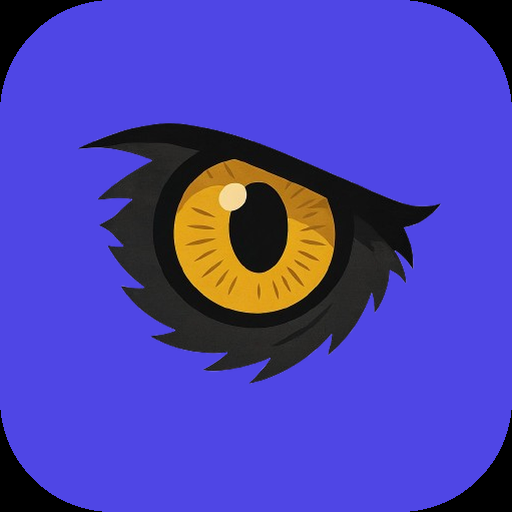
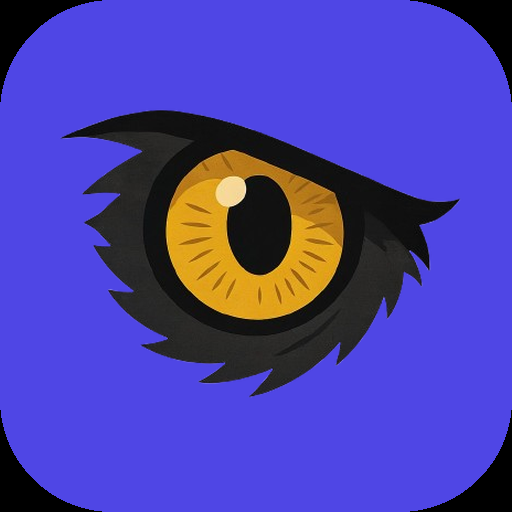
feat(v96): icone safe=1.08 — olho maior com leve crop nas bordas

Changed region(s): [[0.125, 0.1875, 0.9062, 0.7812]]

diff --git a/index.html b/index.html
@@ -10,7 +10,7 @@
 <!-- Force-update: unregister → re-register → SW ready → reload -->
 <script>
   (function() {
-    var V = '95';
+    var V = '96';
     if (localStorage.getItem('_visao_build') !== V) {
       localStorage.setItem('_visao_build', V);
       if ('caches' in window) {
@@ -43,7 +43,7 @@
 <meta name="apple-mobile-web-app-status-bar-style" content="black-translucent">
 <meta name="apple-mobile-web-app-title" content="Falcon">
 <meta name="mobile-web-app-capable" content="yes">
-<link rel="stylesheet" href="css/styles.css?v=20260708j">
+<link rel="stylesheet" href="css/styles.css?v=20260708k">
 <style>.onboarding-logo,.ajustes-avatar{background:#4f46e5!important}</style>
 <script>
   // Aplica tema ANTES de qualquer render — evita flash de tema errado
@@ -61,11 +61,11 @@
 <body>
   <div id="app">
     <div style="padding:80px 20px;text-align:center;color:var(--muted)">
-      <img src="icons/icon-192.png?v=94" style="width:64px;height:64px;border-radius:18px;display:block;margin:0 auto 14px;object-fit:cover;">
+      <img src="icons/icon-192.png?v=95" style="width:64px;height:64px;border-radius:18px;display:block;margin:0 auto 14px;object-fit:cover;">
       <div>Carregando Falcon...</div>
     </div>
   </div>
-  <script type="module" src="js/main.js?v=20260708j"></script>
+  <script type="module" src="js/main.js?v=20260708k"></script>
 
   <!-- Registro do Service Worker (PWA) -->
   <script>

diff --git a/js/screens/welcome.js b/js/screens/welcome.js
@@ -6,7 +6,7 @@ import { setProfile, seedOrganizacaoPessoal } from '../store.js';
 export function renderWelcome(app) {
   app.innerHTML = `
     <div class="onboarding">
-      <div class="onboarding-logo" style="background:#4f46e5"><img src="icons/icon-192.png?v=94" style="width:100%;height:100%;object-fit:cover;border-radius:inherit;display:block;"></div>
+      <div class="onboarding-logo" style="background:#4f46e5"><img src="icons/icon-192.png?v=95" style="width:100%;height:100%;object-fit:cover;border-radius:inherit;display:block;"></div>
       <div class="onboarding-title">Falcon</div>
       <div class="onboarding-sub" style="font-weight:600;color:var(--accent-2);margin-bottom:6px">Bem-vindo!</div>
       <div class="onboarding-sub">Conta criada. Escolha um template pra começar.</div>

diff --git a/js/screens/modalidade.js b/js/screens/modalidade.js
@@ -18,7 +18,7 @@ export function renderModalidade(app) {
 
   app.innerHTML = `
     <div class="onboarding modalidade-screen">
-      <div class="onboarding-logo" style="background:#4f46e5"><img src="icons/icon-192.png?v=94" style="width:100%;height:100%;object-fit:cover;border-radius:inherit;display:block;"></div>
+      <div class="onboarding-logo" style="background:#4f46e5"><img src="icons/icon-192.png?v=95" style="width:100%;height:100%;object-fit:cover;border-radius:inherit;display:block;"></div>
       <div class="onboarding-title">Falcon</div>
       <div class="onboarding-sub" style="font-weight:600;color:var(--accent-2);margin-bottom:6px">
         ${t('modal.hello', { name: escapeHtml(firstName) })}

diff --git a/js/screens/ajustes.js b/js/screens/ajustes.js
@@ -31,7 +31,7 @@ export async function renderAjustes(app) {
         </div>
 
         <div class="ajustes-account">
-          <div class="ajustes-avatar" style="background:#4f46e5"><img src="icons/icon-192.png?v=94" style="width:100%;height:100%;object-fit:cover;border-radius:inherit;display:block;"></div>
+          <div class="ajustes-avatar" style="background:#4f46e5"><img src="icons/icon-192.png?v=95" style="width:100%;height:100%;object-fit:cover;border-radius:inherit;display:block;"></div>
           <div class="ajustes-account-info">
             <strong>${escape(email)}</strong>
             <small>${t('ajustes.plan')}</small>

diff --git a/sw.js b/sw.js
@@ -6,13 +6,13 @@
 //   - Firebase/CDN → sempre rede (não cacheia)
 // ═══════════════════════════════════════════════════════════════
 
-const CACHE_NAME = 'visao-v95';
+const CACHE_NAME = 'visao-v96';
 const CORE_ASSETS = [
   './',
   './index.html',
   './css/styles.css',
   './manifest.json',
-  './icons/icon-192.png?v=94',
+  './icons/icon-192.png?v=95',
   './icons/icon-512.png',
   './icons/apple-touch-icon.png',
   './icons/favicon-32.png',

diff --git a/js/screens/login.js b/js/screens/login.js
@@ -7,7 +7,7 @@ import { showToast } from '../toast.js';
 export function renderLogin(app) {
   app.innerHTML = `
     <div class="login-screen">
-      <div class="login-logo"><img src="icons/icon-192.png?v=94" alt="Falcon" style="width:100%;height:100%;object-fit:cover;display:block;"></div>
+      <div class="login-logo"><img src="icons/icon-192.png?v=95" alt="Falcon" style="width:100%;height:100%;object-fit:cover;display:block;"></div>
       <div class="login-title">Falcon</div>
       <div class="login-sub">Assistente pessoal de planejamento estratégico</div>
 

diff --git a/js/screens/signup.js b/js/screens/signup.js
@@ -6,7 +6,7 @@ import { recordTerms } from '../consent.js';
 export function renderSignup(app) {
   app.innerHTML = `
     <div class="login-screen">
-      <div class="login-logo"><img src="icons/icon-192.png?v=94" alt="Falcon" style="width:100%;height:100%;object-fit:cover;display:block;"></div>
+      <div class="login-logo"><img src="icons/icon-192.png?v=95" alt="Falcon" style="width:100%;height:100%;object-fit:cover;display:block;"></div>
       <div class="login-title">Falcon</div>
       <div class="login-sub">Crie sua conta para começar</div>
 
